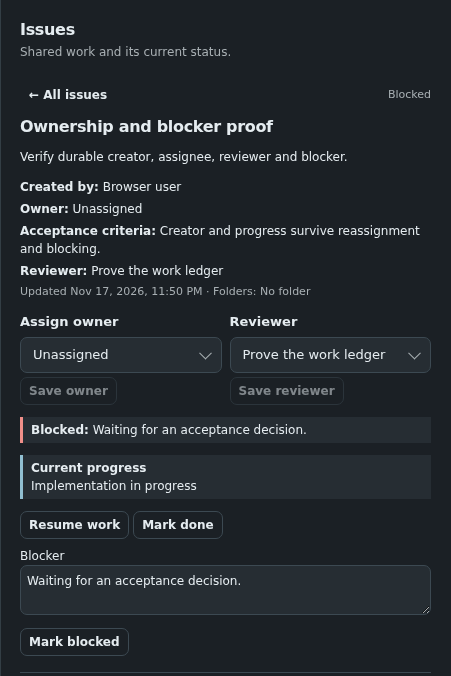
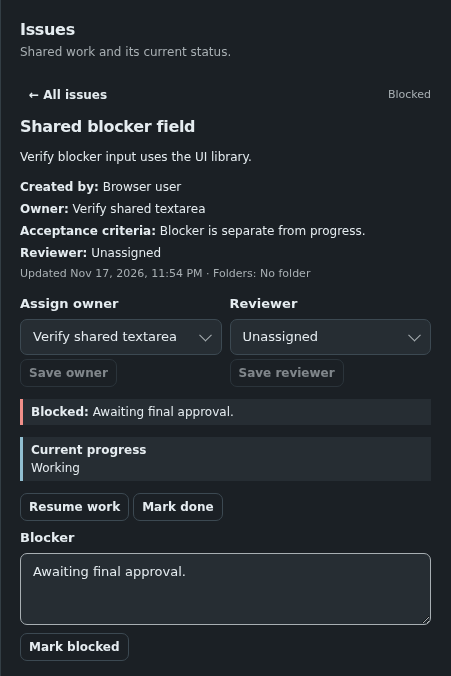
Use shared text area for Work blockers

diff --git a/web/src/components/mux-chat-coordination.ts b/web/src/components/mux-chat-coordination.ts
@@ -5,6 +5,7 @@ import { remoteChatPath } from '../lib/remote-chat-routes.js';
 import { sdkChats } from '../lib/sdk-chats.js';
 import '../ui/button.js';
 import { MuxUISelect } from '../ui/select.js';
+import { MuxUITextArea } from '../ui/text-area.js';
 
 type WorkActor = { kind:'chat' | 'human' | 'external-tool'; sessionId?:string };
 type WorkUpdate = { id:string; at:string; actor?:WorkActor; sessionId?:string; linkedSessionId?:string; text:string; status?:string; progress?:string; outcome?:string; evidence?:string[]; ownerSessionId?:string; reviewerSessionId?:string; blockedReason?:string };
@@ -72,7 +73,7 @@ export class MuxChatCoordination extends LitElement {
     .facts strong { color:var(--ui-text); }
     .blocker { border-left:3px solid var(--ui-danger); padding:var(--ui-space-2) var(--ui-space-4); margin:var(--ui-space-5) 0; background:var(--ui-surface-raised); white-space:pre-wrap; }
     .actions { display:flex; flex-wrap:wrap; gap:var(--ui-space-2); margin:var(--ui-space-4) 0; }
-    .blocker-input { width:100%; min-height:var(--ui-control-lg); resize:vertical; padding:var(--ui-space-3); border:1px solid var(--ui-border); border-radius:var(--ui-radius-md); background:var(--ui-surface-raised); color:var(--ui-text); font:inherit; }
+    .blocker-input { margin-top:var(--ui-space-4); }
     .error { color:var(--ui-danger); margin:var(--ui-space-3) 0; }
     @media(max-width:550px) { .wrap { padding:var(--ui-space-5); } .issue::part(button) { padding-inline:0; } .issue .status { display:none; } .ownership { grid-template-columns:1fr; } }
   `;
@@ -191,7 +192,7 @@ export class MuxChatCoordination extends LitElement {
       ${item.status === 'blocked' ? html`<div class="blocker"><strong>Blocked:</strong> ${item.blockedReason}</div>` : nothing}
       <div class="progress"><strong>Current progress</strong><p>${item.progress || 'No progress recorded yet.'}</p>${item.outcome ? html`<p><strong>Outcome:</strong> ${item.outcome}</p>` : nothing}</div>
       <div class="actions">${item.status === 'blocked' ? html`<mux-ui-button size="small" variant="secondary" ?disabled=${this.saving} @click=${() => void this.updateItem({status:'active'})}>Resume work</mux-ui-button>` : item.status === 'open' || item.status === 'active' ? html`<mux-ui-button size="small" variant="secondary" ?disabled=${this.saving} @click=${() => void this.updateItem({status:'review'})}>Ready for review</mux-ui-button>` : nothing}${item.status !== 'done' && item.status !== 'cancelled' ? html`<mux-ui-button size="small" variant="secondary" ?disabled=${this.saving} @click=${() => void this.updateItem({status:'done'})}>Mark done</mux-ui-button>` : nothing}</div>
-      ${item.status !== 'done' && item.status !== 'cancelled' ? html`<label for="work-blocker">Blocker</label><textarea id="work-blocker" class="blocker-input" .value=${this.blockerDraft} @input=${(event:Event) => { this.blockerDraft=(event.target as HTMLTextAreaElement).value; }} placeholder="What needs to happen before work can continue?"></textarea><div class="actions"><mux-ui-button size="small" variant="secondary" ?disabled=${this.saving || !this.blockerDraft.trim()} @click=${() => void this.updateItem({status:'blocked',blockedReason:this.blockerDraft.trim()})}>Mark blocked</mux-ui-button></div>` : nothing}
+      ${item.status !== 'done' && item.status !== 'cancelled' ? html`<mux-ui-text-area class="blocker-input" label="Blocker" .rows=${2} .value=${this.blockerDraft} ?disabled=${this.saving} @input=${(event:Event) => { this.blockerDraft=(event.target as MuxUITextArea).value; }} placeholder="What needs to happen before work can continue?"></mux-ui-text-area><div class="actions"><mux-ui-button size="small" variant="secondary" ?disabled=${this.saving || !this.blockerDraft.trim()} @click=${() => void this.updateItem({status:'blocked',blockedReason:this.blockerDraft.trim()})}>Mark blocked</mux-ui-button></div>` : nothing}
       <section class="timeline"><h3>Activity</h3>${updates.length ? updates.map(update => html`<div class="entry"><div class="meta">${this.date(update.at)} · ${this.actorName(update.actor, update.sessionId)}${update.status ? ` · ${this.statusName(update.status)}` : ''}</div><p>${update.text || update.progress || update.outcome || (update.ownerSessionId !== undefined ? `Owner: ${update.ownerSessionId ? this.sessionTitle(update.ownerSessionId) : 'Unassigned'}` : update.reviewerSessionId !== undefined ? `Reviewer: ${update.reviewerSessionId ? this.sessionTitle(update.reviewerSessionId) : 'Unassigned'}` : update.blockedReason ? update.blockedReason : update.linkedSessionId ? `Linked ${this.sessionTitle(update.linkedSessionId)}` : update.status ? this.statusName(update.status) : 'Update recorded')}</p>${update.evidence?.length ? html`<p class="meta">Evidence: ${update.evidence.join(', ')}</p>` : nothing}</div>`) : html`<div class="empty">No activity yet.</div>`}</section>`;
   }
   override render() {
